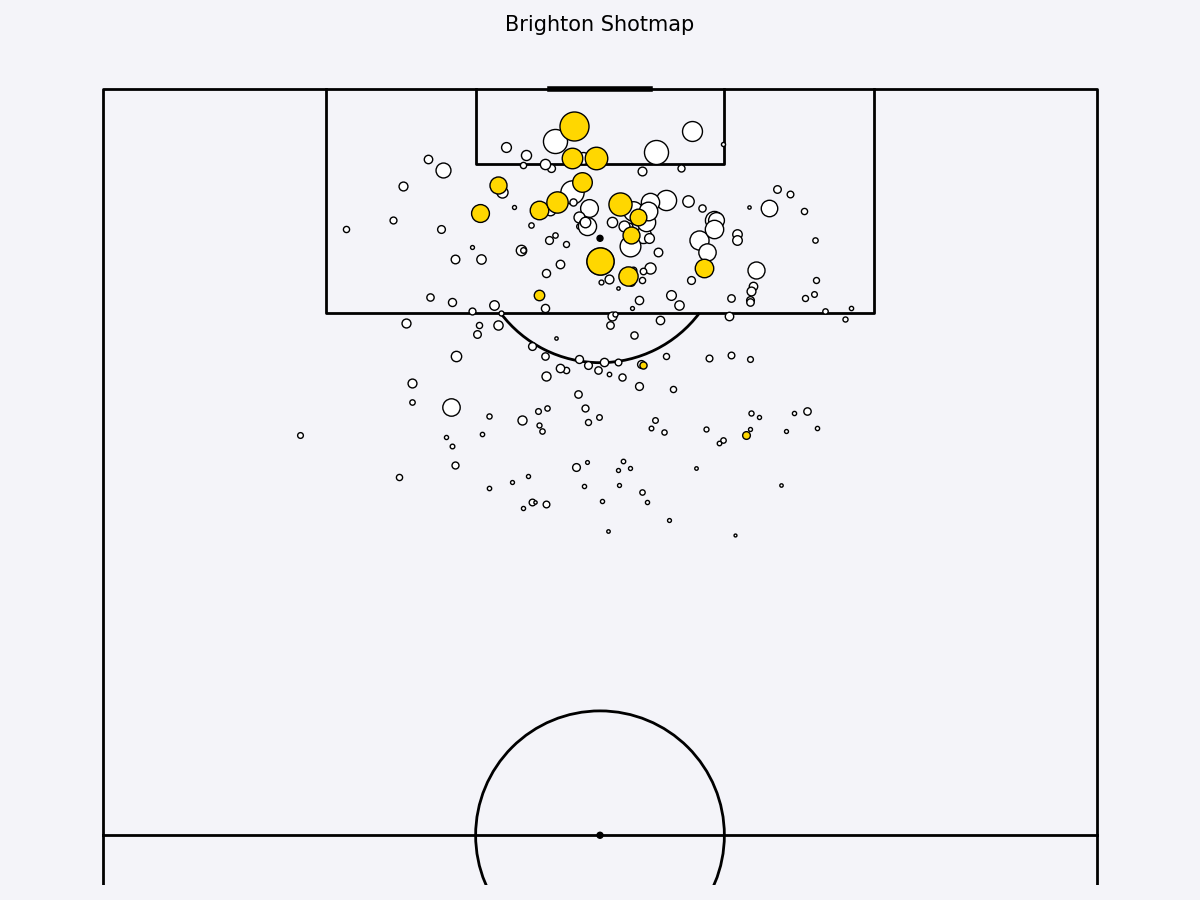
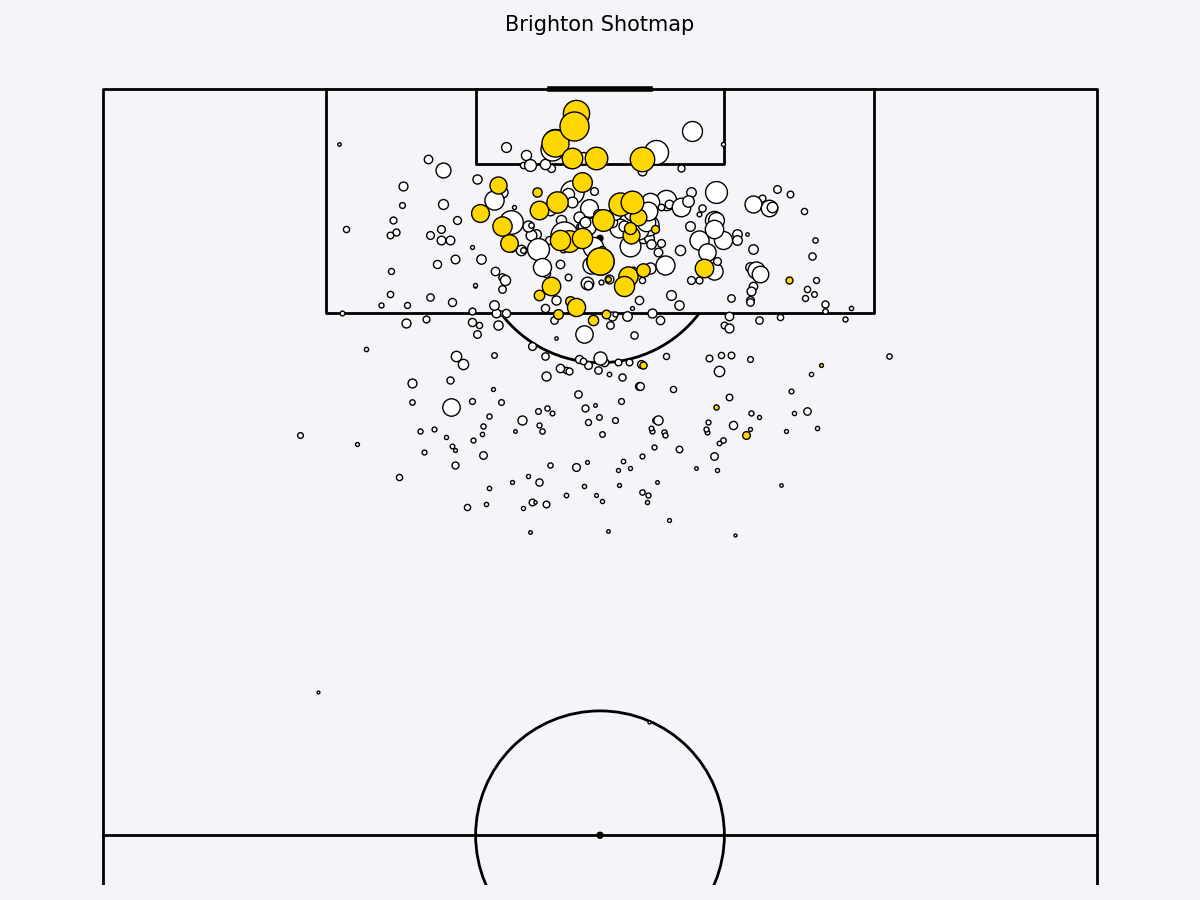
Force update of all shotmap images

diff --git a/templates/epl_results.html b/templates/epl_results.html
@@ -113,14 +113,17 @@
     </div>
     <br><br><br>
     <!-- Dark Overlay for Team Modal -->
-    <div class="modal-overlay" id="teamModalOverlay" onclick="toggleModal('teamInfoModal')"></div>
-    <div class="modal-overlay" id="teamShotmapModalOverlay" onclick="toggleModal('teamShotmapModal')"></div>
+    <div class="modal-overlay" id="infoModalOverlay"></div>
+    <div class="modal-overlay" id="teamInfoModalOverlay"></div>
+    <div class="modal-overlay" id="teamShotmapModalOverlay"></div>
+
     <!-- Team Modal -->
     <div class="modal" id="teamInfoModal">
-        <button class="close-button" onclick="toggleModal('teamInfoModal')">✖</button>
         <h3>Team Pages Coming Soon</h3>
         <p>We are currently working on individual team pages. Stay tuned for updates!</p>
     </div>
+
+    <!-- Shotmap Modal -->
     <div class="modal" id="teamShotmapModal">
         <img id="teamShotmapImage" src="" alt="Team Shotmap">
     </div>
@@ -169,37 +172,14 @@
             let dropdown = document.querySelector('.dropdown');
             dropdown.classList.toggle('show');
         }
-        
-        // Close dropdown if clicked outside
-        window.onclick = function(event) {
-            if (!event.target.matches('.dropbtn')) {
-                let dropdowns = document.getElementsByClassName("dropdown");
-                for (let i = 0; i < dropdowns.length; i++) {
-                    let openDropdown = dropdowns[i];
-                    if (openDropdown.classList.contains('show')) {
-                        openDropdown.classList.remove('show');
-                    }
-                }
-            }
-        };
-        function toggleDropdown(event) {
-            event.preventDefault();  // Prevents page from jumping
-            let dropdown = document.querySelector('.dropdown');
-            dropdown.classList.toggle('show');
-        }
-        
-        // Close dropdown if clicked outside
-        window.onclick = function(event) {
-            if (!event.target.matches('.dropbtn')) {
-                let dropdowns = document.getElementsByClassName("dropdown");
-                for (let i = 0; i < dropdowns.length; i++) {
-                    let openDropdown = dropdowns[i];
-                    if (openDropdown.classList.contains('show')) {
-                        openDropdown.classList.remove('show');
-                    }
-                }
-            }
-        };
+
+        // Close modal when clicking the overlay
+        document.querySelectorAll(".modal-overlay").forEach(overlay => {
+            overlay.addEventListener("click", function() {
+                let modalId = this.id.replace("Overlay", ""); // Extract corresponding modal ID
+                toggleModal(modalId);
+            });
+        });
 
         let currentSortColumn = -1;
         let ascending = true;

diff --git a/templates/epl_table.html b/templates/epl_table.html
@@ -171,7 +171,6 @@
 
     <!-- Team Modal -->
     <div class="modal" id="teamInfoModal">
-        <button class="close-button" onclick="toggleModal('teamInfoModal')">✖</button>
         <h3>Team Pages Coming Soon</h3>
         <p>We are currently working on individual team pages. Stay tuned for updates!</p>
     </div>
@@ -213,19 +212,6 @@
                 let dropdown = document.querySelector('.dropdown');
                 dropdown.classList.toggle('show');
             }
-            
-            // Close dropdown if clicked outside
-            window.onclick = function(event) {
-                if (!event.target.matches('.dropbtn')) {
-                    let dropdowns = document.getElementsByClassName("dropdown");
-                    for (let i = 0; i < dropdowns.length; i++) {
-                        let openDropdown = dropdowns[i];
-                        if (openDropdown.classList.contains('show')) {
-                            openDropdown.classList.remove('show');
-                        }
-                    }
-                }
-            };
 
             let currentSortColumn = -1;
         let ascending = true;

diff --git a/static/styles.css b/static/styles.css
@@ -375,7 +375,7 @@ ul {
 
 .table-container table {
     min-width: 600px;  /* Ensures table has a reasonable width */
-    width: 100%;
+    width: 95%;
     border-collapse: collapse;
 }
 

diff --git a/generate_shotmaps.py b/generate_shotmaps.py
@@ -96,20 +96,30 @@ def process_match_shots(understat_match_id):
             df = pd.DataFrame(shots)
             if df.empty:
                 continue
-
+            
             df['team'] = home_team if team == 'home' else away_team
+             
+            # ✅ Flip coordinates for away teams (Ensuring all shots face the same goal)
+            if team == 'away':
+                df['X'] = 1 - df['X']  # Flip X
+
+            
             df['x_scaled'] = df['X'].astype(float) * 120
             df['y_scaled'] = df['Y'].astype(float) * 80
 
-            # Flip coordinates **only for away teams** (so all shots face the same goal)
-            if team == 'away':
-                df['x_scaled'] = 120 - df['x_scaled']
+            
 
-            team_shots.setdefault(df['team'].iloc[0], pd.DataFrame())
-            team_shots[df['team'].iloc[0]] = pd.concat([team_shots[df['team'].iloc[0]], df], ignore_index=True)
+            # ✅ Debugging: Print sample flipped shots for validation
+            print(f"🏟 Processed shots for {df['team'].iloc[0]} (Team: {team}) - First 3 shots:")
+            print(df[['x_scaled', 'y_scaled']].head(3))
+
+            # ✅ Ensure modified shot data is correctly stored
+            team_name = df['team'].iloc[0]  # Get team name
+            team_shots[team_name] = df.copy()  # Save flipped shots
 
     except Exception as e:
-        print(f"Error processing match {understat_match_id}: {e}")
+        print(f"❌ Error processing match {understat_match_id}: {e}")
+
 
 
 
@@ -214,6 +224,14 @@ def plot_team_shotmap(team_name):
         print(f"No shots found for {team_name}")
         return
     
+    # ✅ Flip away team shots so all teams shoot towards the same goal
+    df.loc[df["h_a"] == "a", "x_scaled"] = 120 - df["x_scaled"]
+    df.loc[df["h_a"] == "a", "y_scaled"] = 80 - df["y_scaled"]
+
+    total_shots = len(df)
+    total_goals = len(df[df["result"].str.lower() == "goal"])
+    total_xg = df["xG"].sum()
+
     # Create pitch
     pitch = VerticalPitch(pitch_type='statsbomb', pitch_color='#f4f4f9', line_color='black', line_zorder=2, half=True)
     fig, ax = pitch.draw(figsize=(12, 9))
@@ -235,6 +253,8 @@ def plot_team_shotmap(team_name):
 
     plt.title(f"{standardized_team_name} Shotmap", fontsize=15)
 
+
+
     # Save using standardized team name
     shotmap_filename = f"{formatted_filename}_shotmap.png"
     plt.savefig(os.path.join(TEAM_SHOTMAP_DIR, shotmap_filename))
@@ -249,4 +269,3 @@ for team in team_shots.keys():
     plot_team_shotmap(team)  # ✅ Now uses **all** available shots for the season
 
 print("✅ All Team Shotmaps Generated! 🎯⚽")
-
